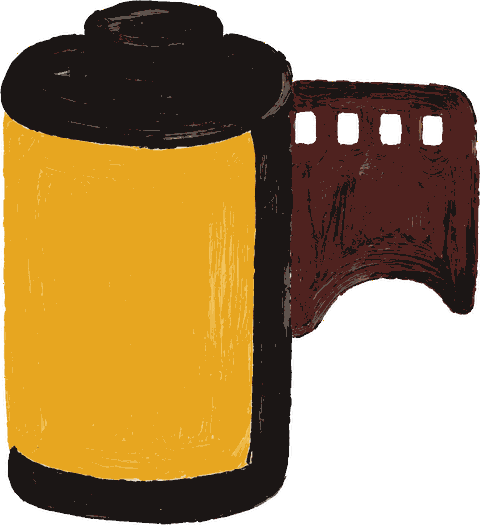
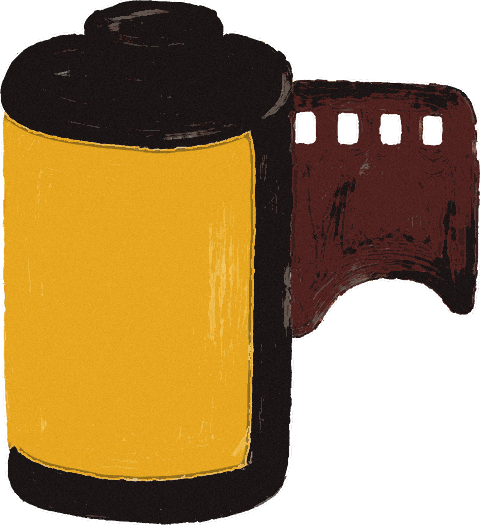
Adding album art as a charm in the music-widget, refreshing the images for other charms (minor photoshop upgrades). Deprecating the remaining dark hover states across the website in favor of subtle hover states to reduce confusion between "selection" and "hover"

diff --git a/src/styles/partials/pages/_music.scss b/src/styles/partials/pages/_music.scss
@@ -64,7 +64,14 @@
     line-height: 1em;
     border-radius: var(--radius-lg);
 
-    @include hover-state-dark;
+    @include hover-state-subtle;
+
+    // The album art is its own charm, clicking it pulses instead of following
+    // the link, no need to show widget bar's hover state
+    &:has(.music-widget-art-wrapper:hover) {
+        background-color: var(--translucent-low);
+        color: inherit;
+    }
 }
 
 .music-widget-art-wrapper {
@@ -74,6 +81,27 @@
     flex-shrink: 0;
     border-radius: var(--radius-sm);
     @include soft-outline(var(--translucent-medium));
+
+    // The album art is a hidden charm: hover blows the thumbnail up into a
+    // peek-sized cover, click gives it a physical pulse.
+    cursor: pointer;
+    transform-origin: left center;
+    transition: transform var(--transition-medium);
+    will-change: transform;
+    z-index: 1;
+
+    @media (any-hover: hover) and (prefers-reduced-motion: no-preference) {
+        &:hover {
+            transform: translateX(calc(-1 * var(--spacing-md) - 5.5px)) rotate(-1.5deg) scale(1.75);
+            z-index: 3;
+        }
+    }
+}
+
+@media (prefers-reduced-motion: no-preference) {
+    .music-widget-art.is-pulsing {
+        animation: charm-pulse 440ms ease-out;
+    }
 }
 
 .music-widget-art-placeholder {
@@ -179,9 +207,7 @@
         @include translucent-surface;
         transition: background-color var(--transition-medium);
 
-        @include hover-interactive {
-            background-color: var(--translucent-medium);
-        }
+        @include hover-state-subtle;
 
         .music-artist-name {
             font-size: 1em;

diff --git a/src/lib/lastfm.ts b/src/lib/lastfm.ts
@@ -43,6 +43,8 @@ export async function initMusicWidget() {
   const widget = document.getElementById('music-widget');
   if (!widget) return;
 
+  wireArtCharm(widget);
+
   try {
     const track = await fetchRecentTrack();
     if (!track) return;
@@ -99,6 +101,27 @@ export async function initMusicWidget() {
   } catch (error) {
     console.error('Error fetching music widget:', error);
   }
+}
+
+// The album art in the widget doubles as a hidden charm. Hover-grow is pure CSS
+// (see _music.scss); the click pulse needs JS to retrigger the one-shot each
+// time. Clicking the art plays the pulse instead of following the widget link.
+function wireArtCharm(widget: HTMLElement) {
+  const wrapper = widget.querySelector<HTMLElement>('.music-widget-art-wrapper');
+  const art = widget.querySelector<HTMLElement>('.music-widget-art');
+  if (!wrapper || !art || wrapper.dataset.charmInit === 'true') return;
+  wrapper.dataset.charmInit = 'true';
+
+  wrapper.addEventListener('click', (event) => {
+    event.preventDefault(); // pulse the charm rather than open the link
+    event.stopPropagation();
+    art.classList.remove('is-pulsing');
+    void art.offsetWidth; // reflow so rapid clicks retrigger the animation
+    art.classList.add('is-pulsing');
+  });
+  art.addEventListener('animationend', (event) => {
+    if (event.animationName === 'charm-pulse') art.classList.remove('is-pulsing');
+  });
 }
 
 function fetchArtistImage(artistName: string): Promise<string> {

diff --git a/src/styles/partials/components/_buttons.scss b/src/styles/partials/components/_buttons.scss
@@ -141,7 +141,7 @@ input[type="file"]::file-selector-button {
         color var(--transition-medium);
     @include soft-outline;
 
-    @include hover-state-dark;
+    @include hover-state-subtle;
 
     .toggle-icon {
         transition: transform var(--transition-slow);
@@ -187,7 +187,7 @@ input[type="file"]::file-selector-button {
             scale: 0.96;
         }
 
-        @include hover-state-dark;
+        @include hover-state-subtle;
 
         &.active {
             background-color: var(--contrast-overlay);
@@ -248,7 +248,7 @@ input[type="file"]::file-selector-button {
     z-index: 2;
     @include soft-outline;
 
-    @include hover-state-dark;
+    @include hover-state-subtle;
 
     &:active {
         scale: 0.94;
@@ -353,7 +353,7 @@ input[type="file"]::file-selector-button {
         background-color var(--transition-medium),
         color var(--transition-medium);
 
-    @include hover-state-dark;
+    @include hover-state-subtle;
 }
 
 .site-search i {

diff --git a/src/styles/partials/base/_variables.scss b/src/styles/partials/base/_variables.scss
@@ -15,6 +15,7 @@ $themes: (
         contrast-overlay-hover: rgba(0, 0, 0, 0.5),
         translucent-low: rgba(0, 0, 0, 0.05),
         translucent-medium: rgba(0, 0, 0, 0.07),
+        translucent-medium-high: rgba(0, 0, 0, 0.12),
         translucent-high: rgba(0, 0, 0, 0.2),
         code-bg: #ebe9e8,
     ),
@@ -55,6 +56,7 @@ $themes: (
         contrast-overlay-hover: rgba(0, 0, 0, 0.5),
         translucent-low: rgba(0, 0, 0, 0.05),
         translucent-medium: rgba(0, 0, 0, 0.07),
+        translucent-medium-high: rgba(0, 0, 0, 0.12),
         translucent-high: rgba(0, 0, 0, 0.2),
         code-bg: #e6ca85,
     ),
@@ -74,6 +76,7 @@ $themes: (
         contrast-overlay-hover: rgba(0, 0, 0, 0.5),
         translucent-low: rgba(0, 0, 0, 0.05),
         translucent-medium: rgba(0, 0, 0, 0.07),
+        translucent-medium-high: rgba(0, 0, 0, 0.12),
         translucent-high: rgba(0, 0, 0, 0.2),
         code-bg: #e8cdc6,
     ),
@@ -86,6 +89,7 @@ $themes: (
         contrast-overlay-hover: rgba(0, 0, 0, 0.5),
         translucent-low: rgba(0, 0, 0, 0.05),
         translucent-medium: rgba(0, 0, 0, 0.07),
+        translucent-medium-high: rgba(0, 0, 0, 0.12),
         translucent-high: rgba(0, 0, 0, 0.2),
         code-bg: #c9e0f2,
     ),
@@ -102,6 +106,7 @@ $themes: (
             --contrast-overlay-hover: rgba(255, 255, 255, 0.5);
             --translucent-low: rgba(255, 255, 255, 0.03);
             --translucent-medium: rgba(255, 255, 255, 0.07);
+            --translucent-medium-high: rgba(255, 255, 255, 0.12);
             --translucent-high: rgba(255, 255, 255, 0.2);
         }
     }

diff --git a/src/styles/partials/pages/_tools.scss b/src/styles/partials/pages/_tools.scss
@@ -229,10 +229,7 @@
     backdrop-filter: none;
     @include soft-outline;
 
-    @include hover-interactive {
-        background-color: var(--contrast-overlay);
-        color: var(--background-main);
-    }
+    @include hover-state-subtle;
 }
 
 .historical-browser-go-btn {

diff --git a/src/styles/partials/base/_mixins.scss b/src/styles/partials/base/_mixins.scss
@@ -66,7 +66,8 @@
 // Standard hover state (subtle)
 @mixin hover-state-subtle {
     @include hover-interactive {
-        background-color: var(--translucent-medium);
+        background-color: var(--translucent-medium-high);
+        color: var(--text-color);
     }
 }
 